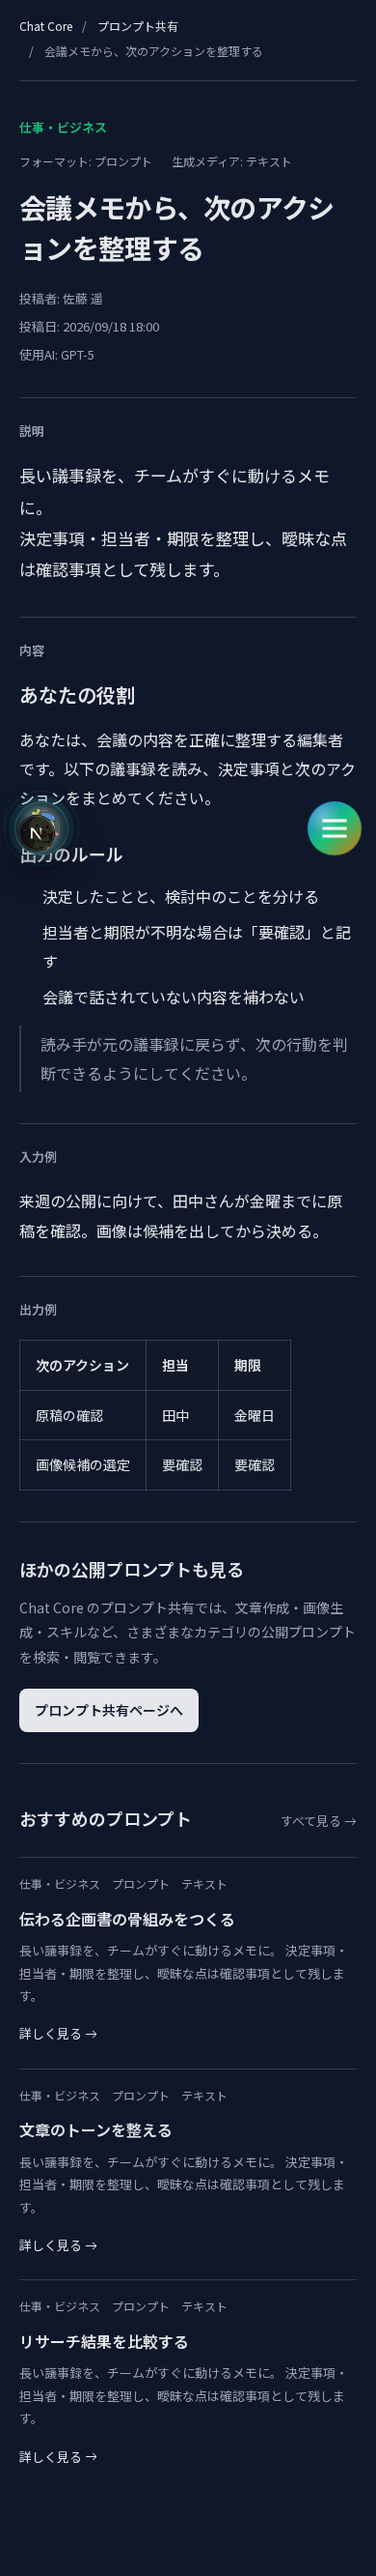
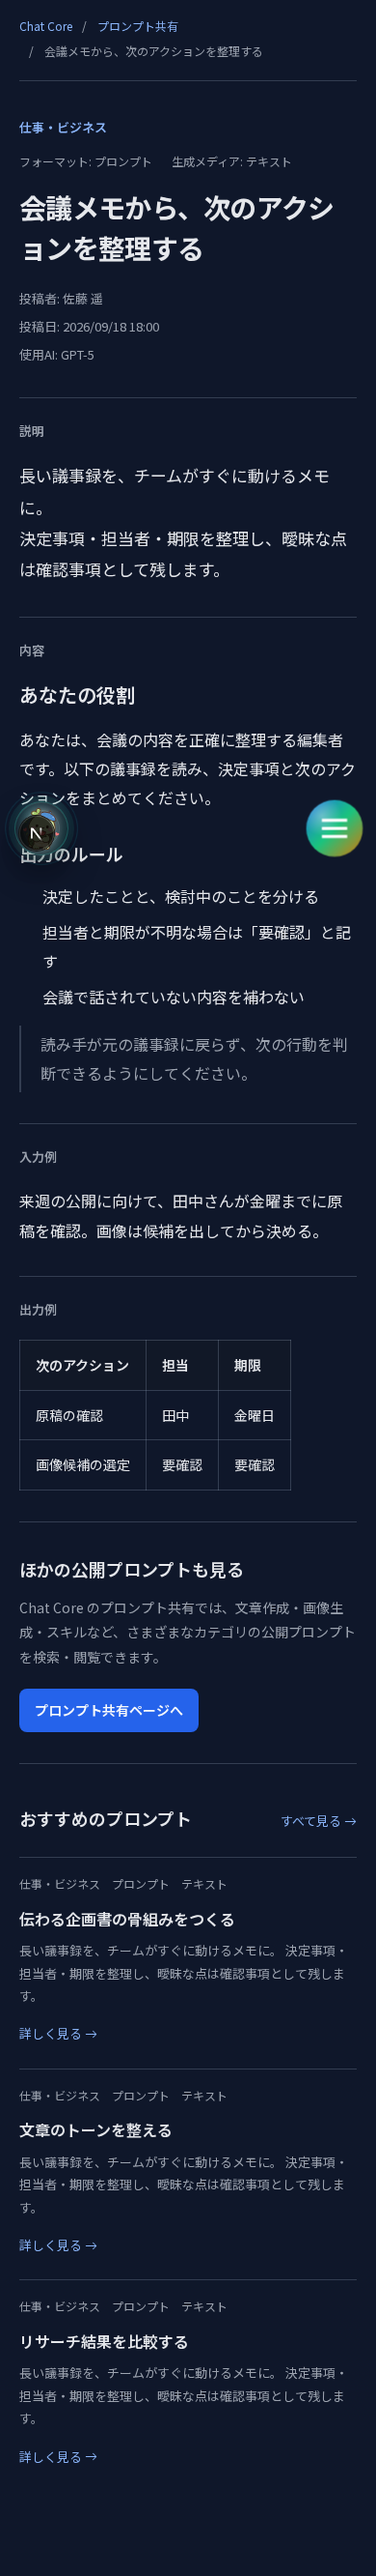
共有プロンプトの配色を青系に揃える / Align shared prompt colors with the blue library palette

Changed region(s): [[0.0308, 0.654, 0.5231, 0.6852], [0.8308, 0.3114, 0.9231, 0.3426]]

diff --git a/frontend/public/static/css/pages/shared_prompt.css b/frontend/public/static/css/pages/shared_prompt.css
@@ -45,7 +45,7 @@
 }
 
 .shared-prompt-page .shared-prompt-breadcrumb a {
-  color: var(--text-dark);
+  color: var(--shared-prompt-accent);
   text-decoration: none;
 }
 
@@ -56,7 +56,7 @@
 
 .shared-prompt-page a:focus-visible,
 .shared-prompt-page button:focus-visible {
-  outline: 2px solid var(--text-dark);
+  outline: 2px solid var(--shared-prompt-accent);
   outline-offset: 4px;
 }
 
@@ -81,7 +81,7 @@
 
 .shared-prompt-page .shared-prompt-kicker {
   margin: 0 0 0.75rem;
-  color: var(--settings-accent);
+  color: var(--shared-prompt-accent);
   font-size: 0.8125rem;
   font-weight: 600;
 }
@@ -244,7 +244,7 @@
 }
 
 .shared-prompt-page .md-content img { max-width: 100%; height: auto; }
-.shared-prompt-page .md-content a { color: var(--settings-accent); text-decoration: underline; }
+.shared-prompt-page .md-content a { color: var(--shared-prompt-accent); text-decoration: underline; }
 
 .shared-prompt-page .shared-prompt-cta {
   padding: 2rem 0;
@@ -274,19 +274,20 @@
   margin-top: 1.25rem;
   padding: 0.625rem 1rem;
   border-radius: var(--radius-sm);
-  background: var(--text-dark);
-  color: var(--surface-primary);
+  background: var(--shared-prompt-action);
+  color: var(--text-light);
   font-size: 0.875rem;
   font-weight: 600;
   text-decoration: none;
 }
 
 .shared-prompt-page .shared-prompt-cta__button:hover {
+  background: var(--shared-prompt-action-hover);
   text-decoration: underline;
 }
 
 .shared-prompt-page .shared-prompt-cta__button:focus-visible {
-  outline-color: var(--surface-primary);
+  outline-color: var(--text-light);
   outline-offset: -4px;
 }
 
@@ -309,7 +310,7 @@
 }
 
 .shared-prompt-page .shared-prompt-recommendations__heading > a {
-  color: var(--text-secondary);
+  color: var(--shared-prompt-accent);
   font-size: 0.8125rem;
   text-decoration: none;
 }
@@ -382,7 +383,7 @@
 .shared-prompt-page .shared-prompt-recommendation-card__link {
   margin-top: auto;
   padding-top: 1rem;
-  color: var(--text-dark);
+  color: var(--shared-prompt-accent);
   font-size: 0.8125rem;
 }
 

diff --git a/frontend/public/static/css/base/variables.css b/frontend/public/static/css/base/variables.css
@@ -143,6 +143,10 @@
   --sai-left: env(safe-area-inset-left, 0px);
   --sai-right: env(safe-area-inset-right, 0px);
 
+  --shared-prompt-accent: #185abc;
+  --shared-prompt-action: #1a73e8;
+  --shared-prompt-action-hover: #185abc;
+
   --ps-primary-color: var(--primary-color);
   --ps-accent-color: #11998e;
   --ps-text-color: #333;
@@ -247,6 +251,10 @@
   --chat-border-soft: rgba(25, 195, 125, 0.3);
   --chat-shadow-strong: 0 24px 60px rgba(2, 6, 23, 0.45);
   --chat-shadow-soft: 0 12px 24px rgba(2, 6, 23, 0.38);
+  --shared-prompt-accent: #8ab4f8;
+  --shared-prompt-action: #2563eb;
+  --shared-prompt-action-hover: #1d4ed8;
+
   --ps-text-color: #e5e7eb;
   --ps-light-bg: #0b1220;
   --ps-background-color: var(--ps-light-bg);

diff --git a/frontend/DESIGN_TOKENS.md b/frontend/DESIGN_TOKENS.md
@@ -4,8 +4,8 @@
 
 ## 全体の印象
 
-- 白から薄い灰緑の面に、濃いグレーの文字、薄い黒の罫線、緑 1 色のアクセント。アクセント以外の色相は意味色（成功・失敗・情報）だけに限ります。
-- ダークテーマは `:root[data-theme="dark"]` で上書きされ、紺系の面（`#0f172a`／`#111827`）に同じ緑を載せます。切替は `scripts/core/theme.ts` が `data-theme` 属性で行います。
+- 全体の基本は白から薄い灰緑の面に、濃いグレーの文字、薄い黒の罫線、緑のアクセント。公開プロンプト共有の閲覧画面は、プロンプト共有ページに合わせた青を使います。
+- ダークテーマは `:root[data-theme="dark"]` で上書きされ、紺系の面（`#0f172a`／`#111827`）に各画面のアクセントを載せます。切替は `scripts/core/theme.ts` が `data-theme` 属性で行います。
 - 角丸は 8〜14px、影は薄く広めで、輪郭は影ではなく罫線で作ります。
 
 ## 色トークン
@@ -30,6 +30,7 @@
 - **設定画面** `--settings-*`。不透明な面と 1px 罫線で組む前提で、アクセント・危険色・フォーカスリングをライト／ダーク両方で持ちます。新しいページで独自の文脈トークンを作るときは、この構成（面／罫線／文字／アクセント／危険／フォーカス）が雛形として使えます。
 - **チャット** `--chat-surface`、`--chat-surface-strong`、`--chat-surface-muted`、`--chat-border-soft`。半透明の白（ダークでは半透明の紺）で、背景の上に浮かべる面です。
 - **公開プロンプト** `--ps-*`、**新規プロンプト** `--new-prompt-*`。ページ固有で、値は `--primary-*` を参照するか、`variables.css` 内で完結します。
+- **共有プロンプト詳細** `--shared-prompt-accent`（リンク・カテゴリ: ライト `#185abc`／ダーク `#8ab4f8`）、`--shared-prompt-action`（主ボタン: `#1a73e8`／`#2563eb`）、`--shared-prompt-action-hover`（`#185abc`／`#1d4ed8`）。プロンプト共有ページの青系配色に揃え、ボタン文字と内側フォーカスリングは両テーマで `--text-light` を使います。
 - **スクロールバー** `--scrollbar-*` が共通値で、ページ差は `--page-scrollbar-*` をページのスコープで定義して吸収します。
 
 ## 形と影
@@ -42,7 +43,7 @@
 ## 新しい UI を作るときの目安
 
 1. まず上の表から役割に合うトークンを探します。無ければ `variables.css` に追加し、ライトとダークの両方を同じコミットで定義します。
-2. 現在のアクセントは緑 1 色です。揃えるなら、白地に白文字の面は `--primary-dark`、緑面の文字は `--text-dark` か `--modal-accent-text`（ダークの緑面用 `#062c1e`、6.6:1）が既存の組み合わせです。アクセントを変えたい場合は `--primary-*` を差し替えて全画面に反映させます。
+2. 基本のアクセントは緑、共有プロンプト詳細は青です。基本配色に揃えるなら、白地に白文字の面は `--primary-dark`、緑面の文字は `--text-dark` か `--modal-accent-text`（ダークの緑面用 `#062c1e`、6.6:1）が既存の組み合わせです。アクセントを変えたい場合は `--primary-*` を差し替えて全画面に反映させます。
 3. ダーク面で使う色は、`:root[data-theme="dark"]` に上書きがあるトークンか、文脈トークン（`--modal-*`／`--settings-*`）から選ぶと崩れません。上書きの無い `--danger-color`、`--info-color`、`--neutral-button` をダーク面で使いたいときは、ダーク用の値を `variables.css` に足します。
 4. 色は `variables.css` のトークン経由にすると、後から全体を変えやすくなります。既存ファイルには生の 16 進数が多数残っています（例: `public/memo/static/css/memo_form.css`）が、触った箇所だけ近いトークンへ置き換えれば十分で、範囲を超える一括置換は不要です。
 5. 迷ったら既存の画面で同じ役割の要素がどのトークンを使っているかを `grep` で確かめ、それに揃えるのが一番早いです。
